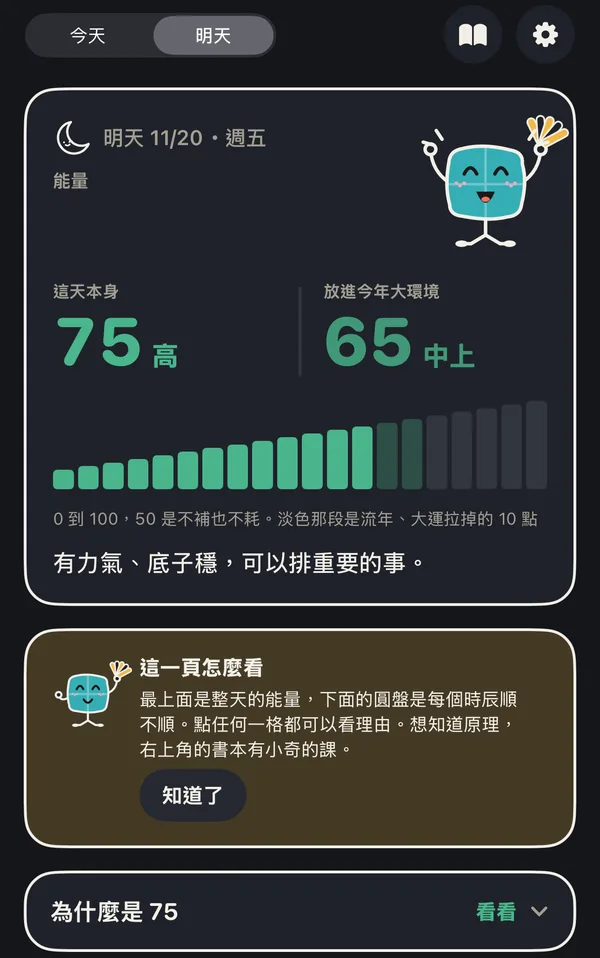
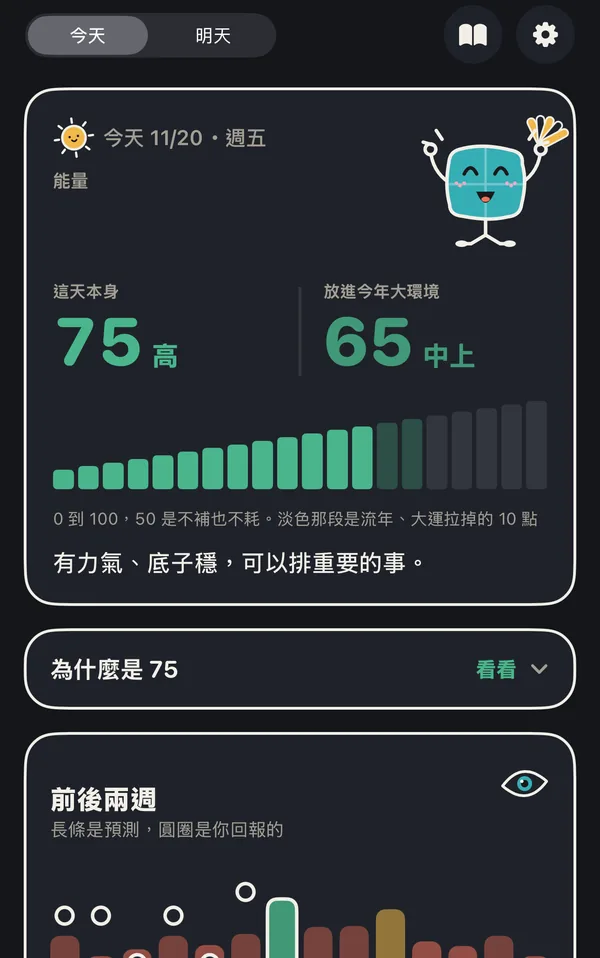
Lessons 1-5 are now free

Changed region(s): [[0.03, 0.6357, 0.96, 1.0], [0.03, 0.0, 0.45, 0.0605], [0.09, 0.1211, 0.21, 0.1816]]

diff --git a/en/index.html b/en/index.html
@@ -137,7 +137,7 @@
 <h3>Seventeen short lessons</h3>
 <p>From where the energy score comes from, the twelve periods, the eight doors and the nine palaces, to the ten gods, nine stars, eight spirits and luck periods. One picture and up to three sentences per card. The first three lessons are free.</p>
 </div>
-<div class="feature-demo"><span class="demo-tag">Example</span><div class="demo demo-learn"><ol><li class="free"><span class="num">1</span>Where energy comes from<em>Free</em></li><li class="free"><span class="num">2</span>The twelve periods<em>Free</em></li><li class="free"><span class="num">3</span>The eight doors<em>Free</em></li><li class="pro"><span class="num">4</span>The nine palaces<em>Pro</em></li><li class="pro"><span class="num">5</span>Picking a time<em>Pro</em></li><li class="pro"><span class="num">6</span>You and them<em>Pro</em></li><li class="pro"><span class="num">7</span>The ten gods<em>Pro</em></li><li class="pro"><span class="num">8</span>The nine stars<em>Pro</em></li><li class="pro"><span class="num">9</span>The eight spirits<em>Pro</em></li><li class="pro"><span class="num">10</span>Luck periods and years<em>Pro</em></li></ol><p class="demo-note">7 more</p></div></div>
+<div class="feature-demo"><span class="demo-tag">Example</span><div class="demo demo-learn"><ol><li class="free"><span class="num">1</span>Where energy comes from<em>Free</em></li><li class="free"><span class="num">2</span>The twelve periods<em>Free</em></li><li class="free"><span class="num">3</span>The eight doors<em>Free</em></li><li class="free"><span class="num">4</span>The nine palaces<em>Free</em></li><li class="free"><span class="num">5</span>Picking a time<em>Free</em></li><li class="pro"><span class="num">6</span>You and them<em>Pro</em></li><li class="pro"><span class="num">7</span>The ten gods<em>Pro</em></li><li class="pro"><span class="num">8</span>The nine stars<em>Pro</em></li><li class="pro"><span class="num">9</span>The eight spirits<em>Pro</em></li><li class="pro"><span class="num">10</span>Luck periods and years<em>Pro</em></li></ol><p class="demo-note">7 more</p></div></div>
 </article>
 </div></section>
 
@@ -157,8 +157,8 @@
 <section id="plans" class="plans"><div class="wrap">
 <div class="sec-head"><h2>Free and Pro</h2><p>Pro only adds lessons. Everything else is the same with or without it.</p></div>
 <div class="plan-grid">
-<div class="plan plan-free"><h3><picture class="doodle in" aria-hidden="true"><source media="(prefers-color-scheme: dark)" srcset="/chengshi/assets/doodle/coin-dark.webp"><img src="/chengshi/assets/doodle/coin-light.webp" alt="" width="36" height="36" loading="lazy" decoding="async"></picture>Free</h3><ul><li>Tomorrow&#x27;s energy and the twelve periods</li><li>Ask, pick a time, matter folders</li><li>People and places, no limit</li><li>Check-ins, evening reminder, background colours</li><li>AI explanations (optional)</li><li>The first 3 lessons</li></ul></div>
-<div class="plan plan-pro"><h3><picture class="doodle in" aria-hidden="true"><source media="(prefers-color-scheme: dark)" srcset="/chengshi/assets/doodle/star-dark.webp"><img src="/chengshi/assets/doodle/star-light.webp" alt="" width="36" height="36" loading="lazy" decoding="async"></picture>Chengshi Pro</h3><ul><li>Lessons 4 to 17</li><li>Monthly, yearly, or a one-time purchase</li><li>Prices as shown on the App Store</li></ul><picture class="pro-mascot"><source media="(prefers-color-scheme: dark)" srcset="/chengshi/assets/art/fan-dark.webp"><img src="/chengshi/assets/art/fan-light.webp" alt="" width="120" height="103" loading="lazy" decoding="async"></picture></div>
+<div class="plan plan-free"><h3><picture class="doodle in" aria-hidden="true"><source media="(prefers-color-scheme: dark)" srcset="/chengshi/assets/doodle/coin-dark.webp"><img src="/chengshi/assets/doodle/coin-light.webp" alt="" width="36" height="36" loading="lazy" decoding="async"></picture>Free</h3><ul><li>Tomorrow&#x27;s energy and the twelve periods</li><li>Ask, pick a time, matter folders</li><li>People and places, no limit</li><li>Check-ins, evening reminder, background colours</li><li>AI explanations (optional)</li><li>The first 5 lessons</li></ul></div>
+<div class="plan plan-pro"><h3><picture class="doodle in" aria-hidden="true"><source media="(prefers-color-scheme: dark)" srcset="/chengshi/assets/doodle/star-dark.webp"><img src="/chengshi/assets/doodle/star-light.webp" alt="" width="36" height="36" loading="lazy" decoding="async"></picture>Chengshi Pro</h3><ul><li>Lessons 6 to 17</li><li>Monthly, yearly, or a one-time purchase</li><li>Prices as shown on the App Store</li></ul><picture class="pro-mascot"><source media="(prefers-color-scheme: dark)" srcset="/chengshi/assets/art/fan-dark.webp"><img src="/chengshi/assets/art/fan-light.webp" alt="" width="120" height="103" loading="lazy" decoding="async"></picture></div>
 </div>
 <div class="end"><picture class="end-mascot"><source media="(prefers-color-scheme: dark)" srcset="/chengshi/assets/art/flag-dark.webp"><img src="/chengshi/assets/art/flag-light.webp" alt="" width="110" height="102" loading="lazy" decoding="async"></picture><div><p class="soon"><span class="soon-dot" aria-hidden="true"></span>iPhone app, coming soon to the App Store</p><p class="end-links"><a href="/chengshi/en/support/">Support</a><a href="/chengshi/en/privacy/">Privacy</a><a href="/chengshi/en/terms/">Terms</a></p></div></div>
 </div></section>

diff --git a/index.html b/index.html
@@ -137,7 +137,7 @@
 <h3>十七堂課，一堂幾張卡</h3>
 <p>從能量怎麼來、十二時辰、八門、九宮盤，到十神、九星、八神、大運和流年。每張卡一張圖、最多三句話。前三堂免費。</p>
 </div>
-<div class="feature-demo"><span class="demo-tag">示範</span><div class="demo demo-learn"><ol><li class="free"><span class="num">1</span>能量是怎麼來的<em>免費</em></li><li class="free"><span class="num">2</span>一天十二個時辰<em>免費</em></li><li class="free"><span class="num">3</span>八門<em>免費</em></li><li class="pro"><span class="num">4</span>九宮盤<em>Pro</em></li><li class="pro"><span class="num">5</span>挑時間<em>Pro</em></li><li class="pro"><span class="num">6</span>你和他<em>Pro</em></li><li class="pro"><span class="num">7</span>十神<em>Pro</em></li><li class="pro"><span class="num">8</span>九星<em>Pro</em></li><li class="pro"><span class="num">9</span>八神<em>Pro</em></li><li class="pro"><span class="num">10</span>大運和流年<em>Pro</em></li></ol><p class="demo-note">還有 7 堂</p></div></div>
+<div class="feature-demo"><span class="demo-tag">示範</span><div class="demo demo-learn"><ol><li class="free"><span class="num">1</span>能量是怎麼來的<em>免費</em></li><li class="free"><span class="num">2</span>一天十二個時辰<em>免費</em></li><li class="free"><span class="num">3</span>八門<em>免費</em></li><li class="free"><span class="num">4</span>九宮盤<em>免費</em></li><li class="free"><span class="num">5</span>挑時間<em>免費</em></li><li class="pro"><span class="num">6</span>你和他<em>Pro</em></li><li class="pro"><span class="num">7</span>十神<em>Pro</em></li><li class="pro"><span class="num">8</span>九星<em>Pro</em></li><li class="pro"><span class="num">9</span>八神<em>Pro</em></li><li class="pro"><span class="num">10</span>大運和流年<em>Pro</em></li></ol><p class="demo-note">還有 7 堂</p></div></div>
 </article>
 </div></section>
 
@@ -157,8 +157,8 @@
 <section id="plans" class="plans"><div class="wrap">
 <div class="sec-head"><h2>免費與 Pro</h2><p>Pro 只多開課程。其他功能都一樣，不會因為沒買而被擋。</p></div>
 <div class="plan-grid">
-<div class="plan plan-free"><h3><picture class="doodle in" aria-hidden="true"><source media="(prefers-color-scheme: dark)" srcset="/chengshi/assets/doodle/coin-dark.webp"><img src="/chengshi/assets/doodle/coin-light.webp" alt="" width="36" height="36" loading="lazy" decoding="async"></picture>免費</h3><ul><li>明天的能量與十二個時辰</li><li>問事、挑時間、事的資料夾</li><li>人和地，數量不限</li><li>對帳、每晚提醒、底色</li><li>AI 解讀（選用）</li><li>前 3 堂課</li></ul></div>
-<div class="plan plan-pro"><h3><picture class="doodle in" aria-hidden="true"><source media="(prefers-color-scheme: dark)" srcset="/chengshi/assets/doodle/star-dark.webp"><img src="/chengshi/assets/doodle/star-light.webp" alt="" width="36" height="36" loading="lazy" decoding="async"></picture>乘時 Pro</h3><ul><li>打開第 4 到第 17 堂課</li><li>月訂閱、年訂閱，或一次買斷</li><li>價格以 App Store 顯示為準</li></ul><picture class="pro-mascot"><source media="(prefers-color-scheme: dark)" srcset="/chengshi/assets/art/fan-dark.webp"><img src="/chengshi/assets/art/fan-light.webp" alt="" width="120" height="103" loading="lazy" decoding="async"></picture></div>
+<div class="plan plan-free"><h3><picture class="doodle in" aria-hidden="true"><source media="(prefers-color-scheme: dark)" srcset="/chengshi/assets/doodle/coin-dark.webp"><img src="/chengshi/assets/doodle/coin-light.webp" alt="" width="36" height="36" loading="lazy" decoding="async"></picture>免費</h3><ul><li>明天的能量與十二個時辰</li><li>問事、挑時間、事的資料夾</li><li>人和地，數量不限</li><li>對帳、每晚提醒、底色</li><li>AI 解讀（選用）</li><li>前 5 堂課</li></ul></div>
+<div class="plan plan-pro"><h3><picture class="doodle in" aria-hidden="true"><source media="(prefers-color-scheme: dark)" srcset="/chengshi/assets/doodle/star-dark.webp"><img src="/chengshi/assets/doodle/star-light.webp" alt="" width="36" height="36" loading="lazy" decoding="async"></picture>乘時 Pro</h3><ul><li>打開第 6 到第 17 堂課</li><li>月訂閱、年訂閱，或一次買斷</li><li>價格以 App Store 顯示為準</li></ul><picture class="pro-mascot"><source media="(prefers-color-scheme: dark)" srcset="/chengshi/assets/art/fan-dark.webp"><img src="/chengshi/assets/art/fan-light.webp" alt="" width="120" height="103" loading="lazy" decoding="async"></picture></div>
 </div>
 <div class="end"><picture class="end-mascot"><source media="(prefers-color-scheme: dark)" srcset="/chengshi/assets/art/flag-dark.webp"><img src="/chengshi/assets/art/flag-light.webp" alt="" width="110" height="102" loading="lazy" decoding="async"></picture><div><p class="soon"><span class="soon-dot" aria-hidden="true"></span>iPhone App，即將在 App Store 推出</p><p class="end-links"><a href="/chengshi/support/">支援</a><a href="/chengshi/privacy/">隱私</a><a href="/chengshi/terms/">使用條款</a></p></div></div>
 </div></section>

diff --git a/en/terms/index.html b/en/terms/index.html
@@ -40,7 +40,7 @@
 </div></header>
 <main id="main" class="doc"><div class="wrap doc-wrap">
 <div class="doc-head"><picture class="doc-mascot"><source media="(prefers-color-scheme: dark)" srcset="/chengshi/assets/art/fan-dark.webp"><img src="/chengshi/assets/art/fan-light.webp" alt="" width="120" height="103" loading="lazy" decoding="async"></picture><div><h1>Terms of use</h1><p class="lead">By using Chengshi you agree to these terms and to Apple&#x27;s standard licence agreement (EULA).</p><p class="lang-note">The app&#x27;s screens are in Traditional Chinese only for now. More languages will come later.</p></div></div>
-<section><h2>What Chengshi is</h2><p>Chengshi builds charts from the traditional Chinese calendar (BaZi and Qimen Dunjia) and turns them into scores and suggestions with rules we wrote, as a reference for planning your time and looking back. The rules have not been validated, and Chengshi does not promise any outcome.</p></section><section><h2>Not professional advice</h2><p>Nothing in Chengshi is medical, psychological, legal, financial or investment advice. Make important decisions with your own judgement and ask a professional when you need one.</p></section><section><h2>Chengshi Pro</h2><p>Pro only adds lessons 4 to 17; every other feature is in the free version. Pro comes as a monthly subscription, a yearly subscription or a one-time purchase, with prices shown on the purchase screen.</p></section><section><h2>Subscriptions and renewal</h2><p>Payment is charged to your Apple Account when you confirm the purchase. A subscription renews automatically unless you cancel at least 24 hours before the end of the current period, and the next period is charged within 24 hours before it ends. Manage or cancel in your iPhone&#x27;s Settings → your name → Subscriptions. The one-time purchase is paid once and does not renew.</p></section><section><h2>Restoring and refunds</h2><p>On a new phone or after reinstalling, use 設定 (Settings) → 乘時 Pro → 恢復購買 (Restore purchases) with the same Apple Account. Apple handles refunds at reportaproblem.apple.com.</p></section><section><h2>AI explanations</h2><p>AI explanations are optional. With your own API key, your use of that service is under its terms and billed to your own account. The AI only rewrites results the app has already computed.</p></section><section><h2>Your data</h2><p>Your data stays on your phone. See the privacy policy.</p></section><section><h2>Changes</h2><p>If these terms change, this page and the date below will be updated. Using the app after an update means you accept the new terms.</p></section>
+<section><h2>What Chengshi is</h2><p>Chengshi builds charts from the traditional Chinese calendar (BaZi and Qimen Dunjia) and turns them into scores and suggestions with rules we wrote, as a reference for planning your time and looking back. The rules have not been validated, and Chengshi does not promise any outcome.</p></section><section><h2>Not professional advice</h2><p>Nothing in Chengshi is medical, psychological, legal, financial or investment advice. Make important decisions with your own judgement and ask a professional when you need one.</p></section><section><h2>Chengshi Pro</h2><p>Pro only adds lessons 6 to 17; every other feature is in the free version. Pro comes as a monthly subscription, a yearly subscription or a one-time purchase, with prices shown on the purchase screen.</p></section><section><h2>Subscriptions and renewal</h2><p>Payment is charged to your Apple Account when you confirm the purchase. A subscription renews automatically unless you cancel at least 24 hours before the end of the current period, and the next period is charged within 24 hours before it ends. Manage or cancel in your iPhone&#x27;s Settings → your name → Subscriptions. The one-time purchase is paid once and does not renew.</p></section><section><h2>Restoring and refunds</h2><p>On a new phone or after reinstalling, use 設定 (Settings) → 乘時 Pro → 恢復購買 (Restore purchases) with the same Apple Account. Apple handles refunds at reportaproblem.apple.com.</p></section><section><h2>AI explanations</h2><p>AI explanations are optional. With your own API key, your use of that service is under its terms and billed to your own account. The AI only rewrites results the app has already computed.</p></section><section><h2>Your data</h2><p>Your data stays on your phone. See the privacy policy.</p></section><section><h2>Changes</h2><p>If these terms change, this page and the date below will be updated. Using the app after an update means you accept the new terms.</p></section>
 <section><p><a href="https://www.apple.com/legal/internet-services/itunes/dev/stdeula/">Apple&#x27;s standard licence agreement (EULA)</a> · <a href="/chengshi/en/privacy/">privacy policy</a> · <a href="/chengshi/en/support/">Support</a></p></section>
 <p class="updated">Last updated: 20 November 2026</p>
 </div></main>

diff --git a/terms/index.html b/terms/index.html
@@ -40,7 +40,7 @@
 </div></header>
 <main id="main" class="doc"><div class="wrap doc-wrap">
 <div class="doc-head"><picture class="doc-mascot"><source media="(prefers-color-scheme: dark)" srcset="/chengshi/assets/art/fan-dark.webp"><img src="/chengshi/assets/art/fan-light.webp" alt="" width="120" height="103" loading="lazy" decoding="async"></picture><div><h1>使用條款</h1><p class="lead">使用乘時，代表你同意這份條款，以及 Apple 的標準授權條款（EULA）。</p></div></div>
-<section><h2>乘時是什麼</h2><p>乘時用傳統曆法（八字與時家奇門）替你排盤，再照我們自己訂的規則換成分數和建議，給你安排時間與回顧時參考。分數的規則沒有被驗證過，乘時不保證任何結果。</p></section><section><h2>不是專業建議</h2><p>乘時的內容不是醫療、心理、法律、財務或投資建議。重要的決定，請照你自己的判斷，需要時請教專業人士。</p></section><section><h2>乘時 Pro</h2><p>Pro 只多開第 4 到第 17 堂課，其他功能免費版都有。Pro 有月訂閱、年訂閱和一次買斷，價格在購買頁顯示。</p></section><section><h2>訂閱與續訂</h2><p>訂閱的費用在你確認購買時，從你的 Apple 帳號收取。除非在這一期結束前至少 24 小時取消，訂閱會自動續訂，並在這一期結束前 24 小時內收取下一期費用。你可以在 iPhone 的「設定 → 你的名字 → 訂閱」管理或取消。一次買斷只付一次，不會續訂。</p></section><section><h2>恢復購買與退款</h2><p>換手機或重裝後，用同一個 Apple 帳號在「設定 → 乘時 Pro → 恢復購買」拿回來。退款由 Apple 處理，請到 reportaproblem.apple.com 申請。</p></section><section><h2>AI 解讀</h2><p>AI 解讀是選用的。用你自己的 API key 時，你和那家服務之間照它的條款，費用也由你自己的帳號支付。AI 只把程式算好的內容改寫成白話。</p></section><section><h2>你的資料</h2><p>你的資料存在你的手機。詳見隱私權政策。</p></section><section><h2>條款更新</h2><p>條款有更動時，會更新這一頁和下面的日期。更新後繼續使用，代表你同意新的條款。</p></section>
+<section><h2>乘時是什麼</h2><p>乘時用傳統曆法（八字與時家奇門）替你排盤，再照我們自己訂的規則換成分數和建議，給你安排時間與回顧時參考。分數的規則沒有被驗證過，乘時不保證任何結果。</p></section><section><h2>不是專業建議</h2><p>乘時的內容不是醫療、心理、法律、財務或投資建議。重要的決定，請照你自己的判斷，需要時請教專業人士。</p></section><section><h2>乘時 Pro</h2><p>Pro 只多開第 6 到第 17 堂課，其他功能免費版都有。Pro 有月訂閱、年訂閱和一次買斷，價格在購買頁顯示。</p></section><section><h2>訂閱與續訂</h2><p>訂閱的費用在你確認購買時，從你的 Apple 帳號收取。除非在這一期結束前至少 24 小時取消，訂閱會自動續訂，並在這一期結束前 24 小時內收取下一期費用。你可以在 iPhone 的「設定 → 你的名字 → 訂閱」管理或取消。一次買斷只付一次，不會續訂。</p></section><section><h2>恢復購買與退款</h2><p>換手機或重裝後，用同一個 Apple 帳號在「設定 → 乘時 Pro → 恢復購買」拿回來。退款由 Apple 處理，請到 reportaproblem.apple.com 申請。</p></section><section><h2>AI 解讀</h2><p>AI 解讀是選用的。用你自己的 API key 時，你和那家服務之間照它的條款，費用也由你自己的帳號支付。AI 只把程式算好的內容改寫成白話。</p></section><section><h2>你的資料</h2><p>你的資料存在你的手機。詳見隱私權政策。</p></section><section><h2>條款更新</h2><p>條款有更動時，會更新這一頁和下面的日期。更新後繼續使用，代表你同意新的條款。</p></section>
 <section><p><a href="https://www.apple.com/legal/internet-services/itunes/dev/stdeula/">Apple 標準授權條款（EULA）</a> · <a href="/chengshi/privacy/">隱私權政策</a> · <a href="/chengshi/support/">支援</a></p></section>
 <p class="updated">最後更新：2026 年 11 月 20 日</p>
 </div></main>
